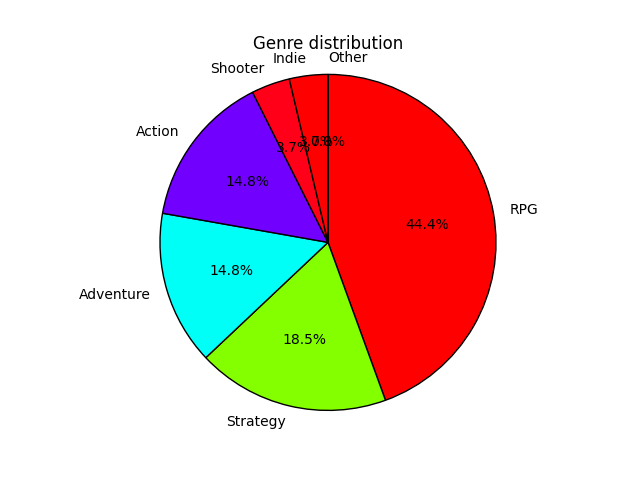
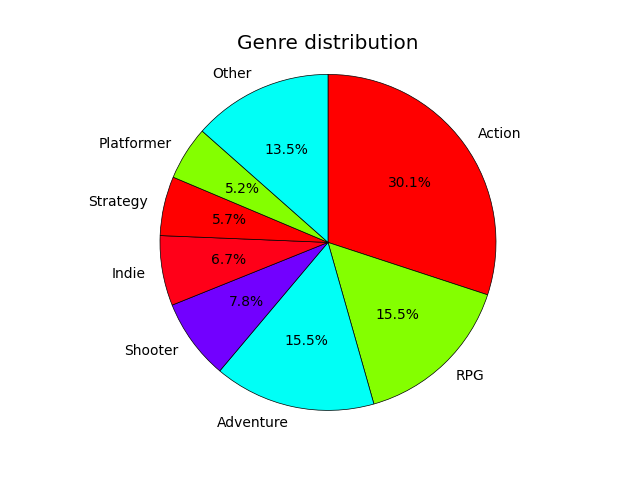
fixed issue where search that returns no results caused unintended behavior, and added a short help text instead

diff --git a/templates/search.html b/templates/search.html
@@ -56,8 +56,22 @@
                     
                     </div>
                     <div class="metadata-view">
+                      {% if results|length > 0 %}
                       <img src="/static/plots/ranking.png" alt="there should be a plot here :(">
                       <img src="/static/plots/genres_pie.png" alt="there should be a plot here :(">
+                      {% else %}
+                      <div class="help">
+                        <p><b>HOW TO SEARCH</b></p>
+                        <p>Type any query in the search bar. Our smart search engine will determine which search function to use.</p>
+                        <p>Trigger <b class="accent">boolean search</b> by adding any of the following operators to your query:</p>
+                          <ul>
+                            <li><code>AND</code>: Results much match both search terms</li>
+                            <li><code>OR</code>: Results may match either search term</li>
+                            <li><code>""</code>: Exact phrase match</li>
+                            <li><code>*</code>: Wildcard, matches any number of characters (including zero)</li>
+                          </ul>
+                      </div>
+                      {% endif %}
                     </div>
                 </div>                
             </div>

diff --git a/static/styles/styles.css b/static/styles/styles.css
@@ -37,7 +37,9 @@ body {
     display: grid;
     grid-template-rows: auto 1fr auto;
 }
-
+.accent {
+    color: var(--color-accent-r);
+}
 a:link, a:visited {
     color: var(--color-mono-w);
     text-decoration: none;
@@ -207,10 +209,17 @@ header {
     height: 60%;
     margin-left: 5%;
     justify-content: center;
+    margin-right: 5%;
 }
 .metadata-view img {
     max-width: 85%;
     justify-content: center;
+}
+
+.help {
+    border-radius: 13px;
+    border: 1px solid var(--color-accent-r);
+    padding: 5px 15px 5px 15px;
 }
 
 /* dynamic sizing */

diff --git a/app.py b/app.py
@@ -1,6 +1,6 @@
 from flask import Flask, render_template, request
 import src.searchEngine as engine
-from src.database import close_db
+from src.database import close_db, plot_ratings, plot_genre_pie
 from pprint import pprint
 import markdown
 
@@ -54,7 +54,6 @@ def results():
 
     if request.method == 'POST':
         query = request.form.get("query")
-
     else: # GET
         query = request.args.get("query")
 
@@ -69,13 +68,25 @@ def results():
     df_results = engine.show_results(engine.smart_search_router(query))  # db version
     #results = search_games(query)   # dummy data version
 
+    if df_results is None or df_results.empty:
+        return render_template(
+            "search.html",
+            query=query,
+            results={}
+        )
+
     # TODO: change this, I am going to do something very ugly and inefficient
     results = []
     for i in df_results.index:
-        print(i)
+        # print(i)
         results.append(df_results.loc[i].to_dict())
         results[-1]["id"] = i
-    pprint(results[0])
+    # pprint(results[0])
+
+    ids = [r["id"] for r in results]
+
+    plot_ratings(ids, "static/plots/ranking.png")
+    plot_genre_pie(ids, "static/plots/genres_pie.png")
     
     return render_template(
         "search.html",

diff --git a/src/database.py b/src/database.py
@@ -5,6 +5,9 @@ from pathlib import Path
 from concurrent.futures import ThreadPoolExecutor
 from pprint import pprint
 from flask import g
+import matplotlib
+matplotlib.use("Agg")  # Non-GUI backend for servers
+
 import matplotlib.pyplot as plt
 import numpy as np
 plt.style.use('ggplot')
